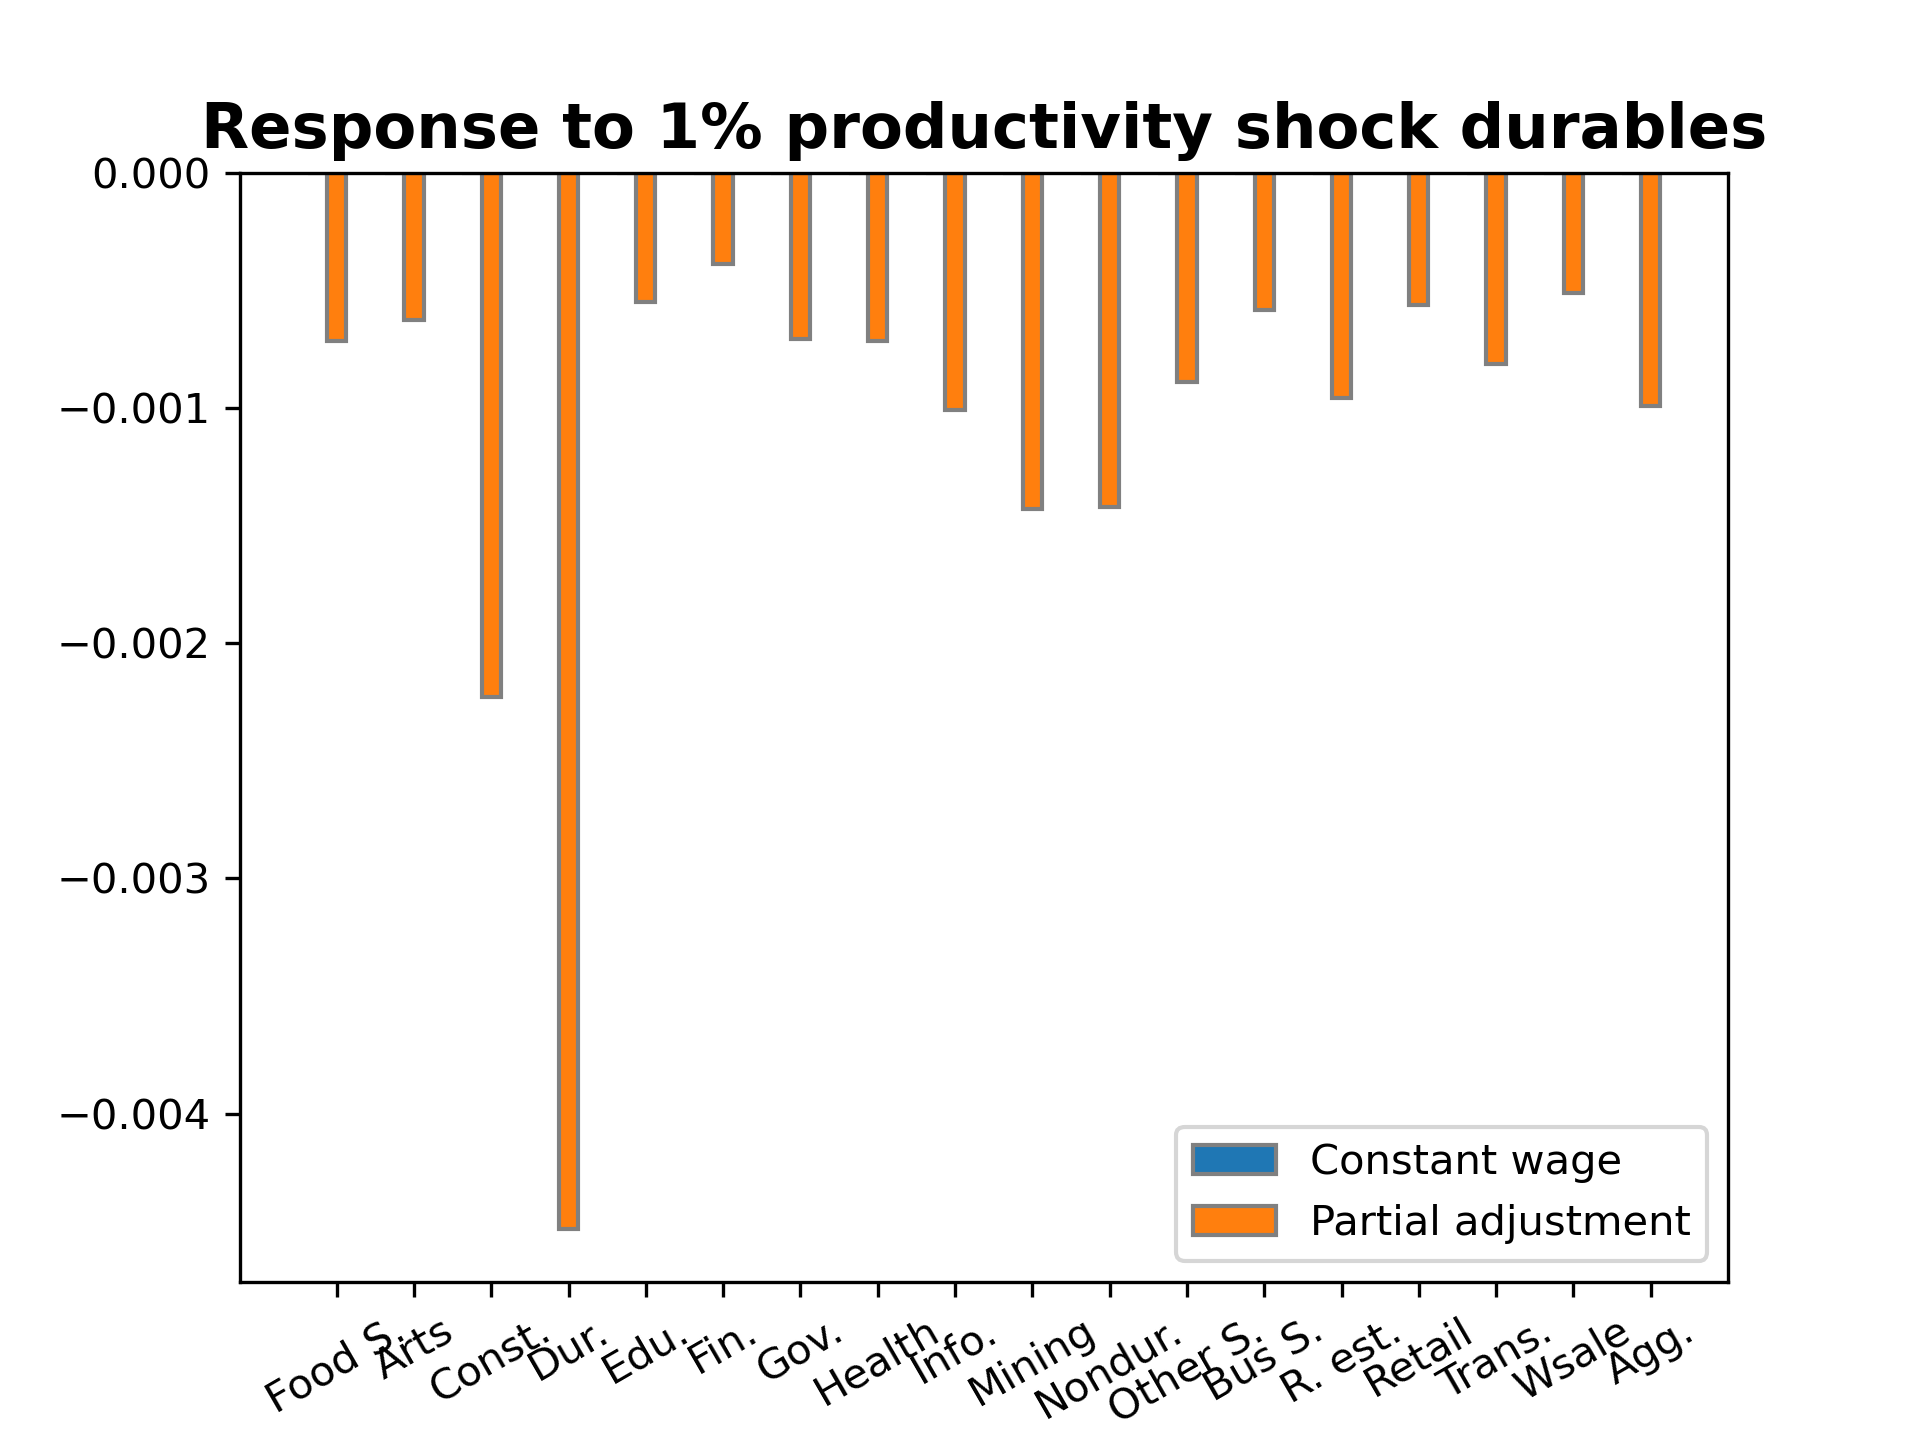
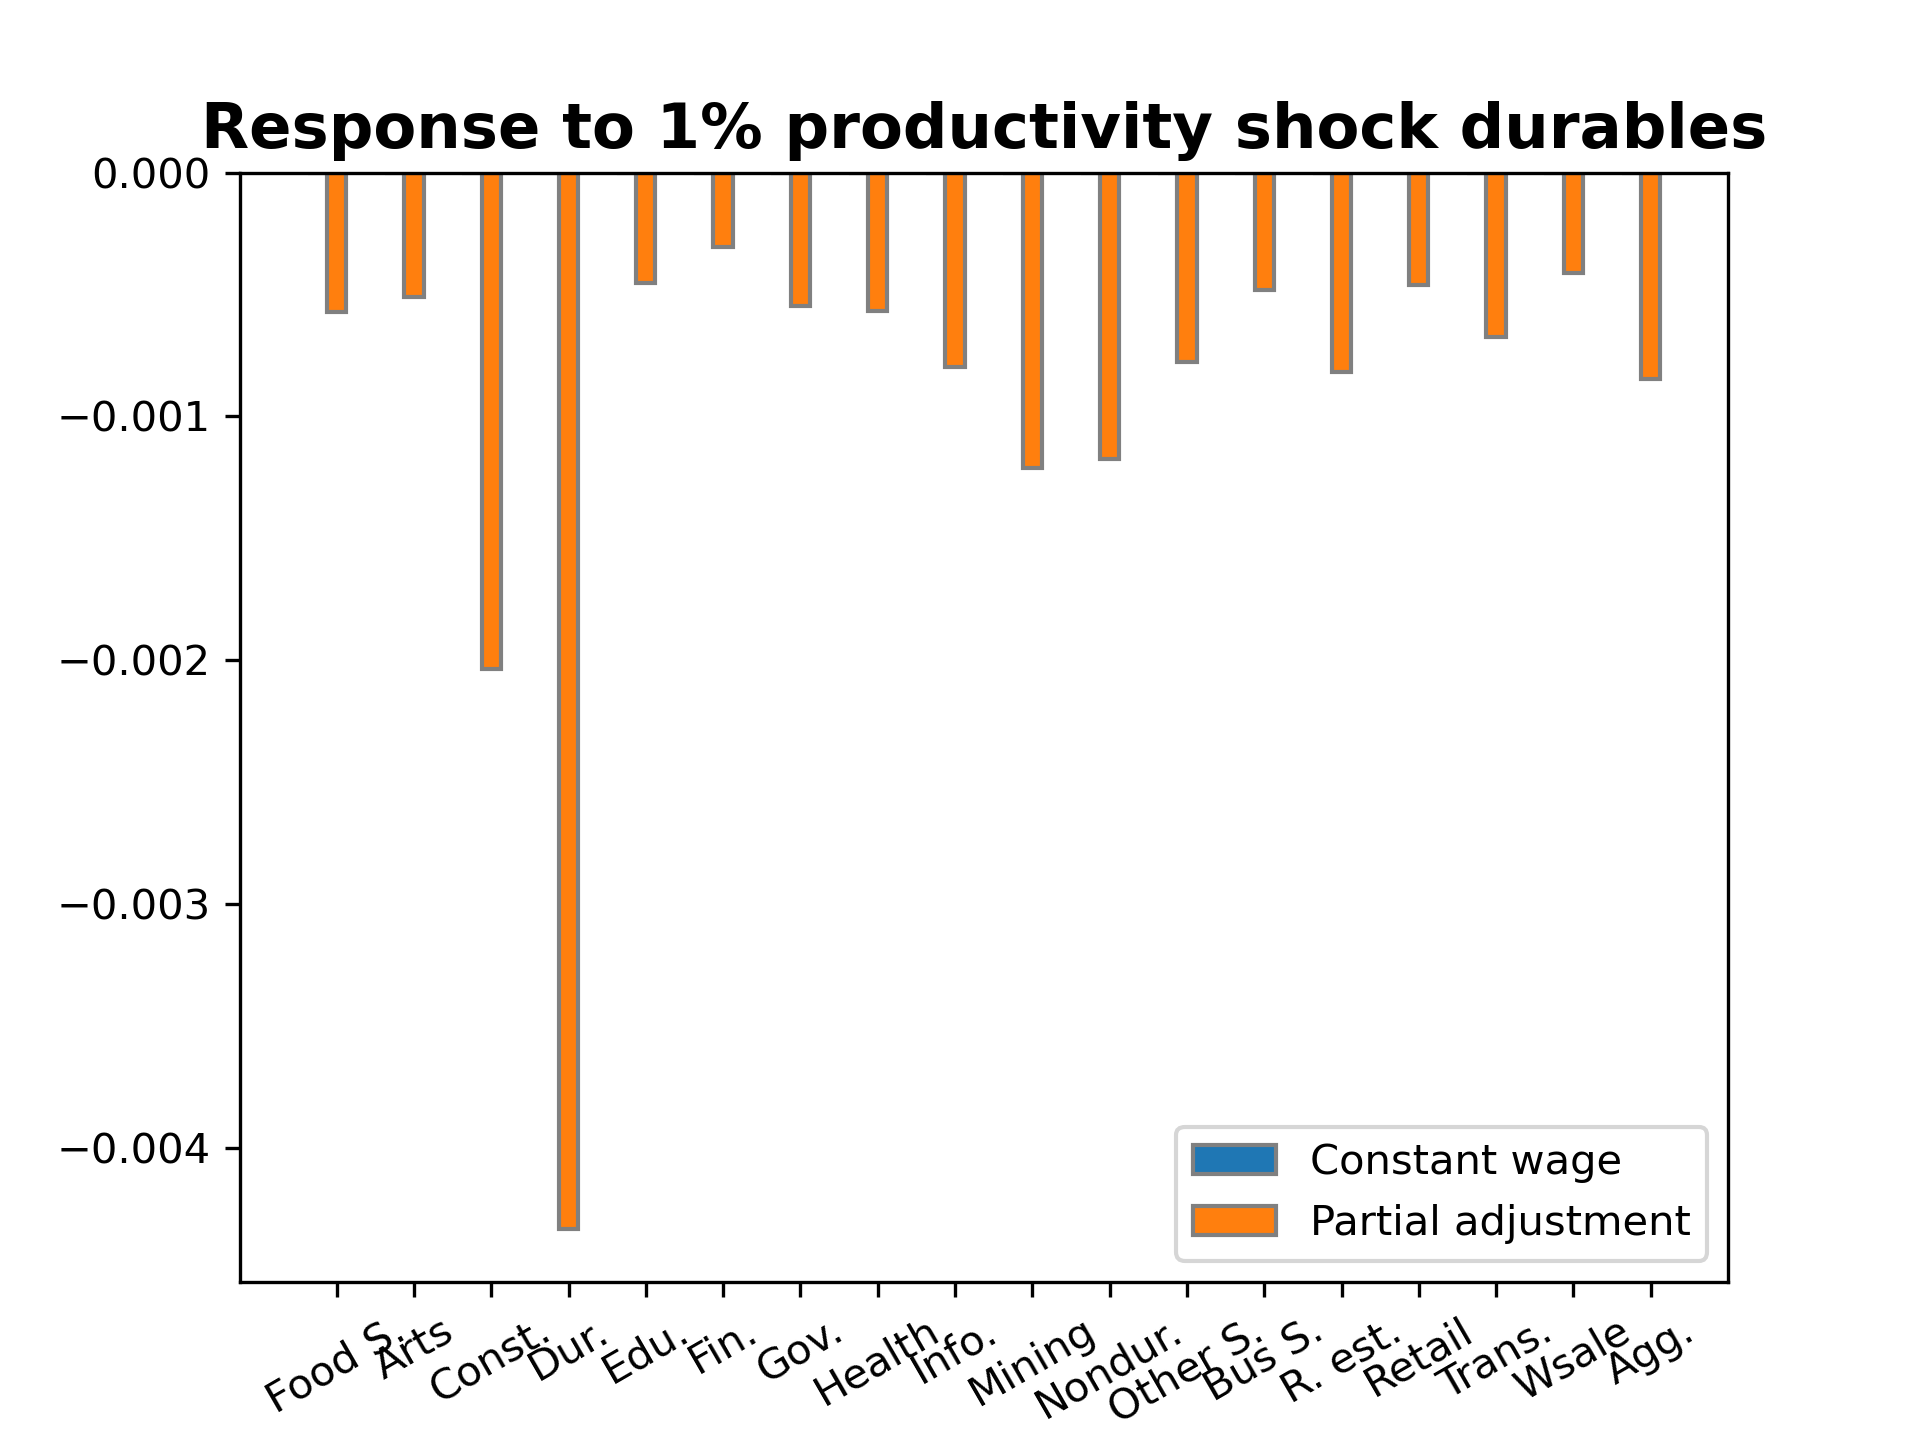
calibrated r

diff --git a/new_code/main.py b/new_code/main.py
@@ -1,7 +1,7 @@
 import numpy as np
 import matplotlib.pyplot as plt
 from scipy.optimize import root
-from functions.helpers_labor_market import gen_curlyF_CD, gen_elasticity_Qtheta_CD, gen_tau_CD
+from functions.helpers_labor_market import gen_curlyF_CD, gen_elasticity_Qtheta_CD, gen_tau_CD, r_calib
 from functions.cobb_douglas_network import cobb_douglas_network, bar_plot
 import pandas as pd
 
@@ -54,7 +54,9 @@ if __name__ == "__main__":
 
     elasticity_Qtheta = gen_elasticity_Qtheta_CD(theta,eta)
     curlyF = gen_curlyF_CD(theta,eta,phi,s)
-    tau = gen_tau_CD(theta,eta,phi,s,r)
+    
+    r = r_calib(theta,eta,phi,s,L,0.032)
+    tau = gen_tau_CD(theta,eta,phi,s,r*np.ones_like(theta))
 
     #### Setting up production network ####
     ## Rigid nominal wages ##
@@ -203,5 +205,5 @@ if __name__ == "__main__":
     ylab    = ''
     save_path = 'output/H_shock_fixed_sectoral_Urate_durables.png'
     bar_plot(networks, sector_names, varname, aggname, title, xlab, ylab, labels, save_path, rotation=30, fontsize=15, barWidth = 0.25, dpi=300)
-    
+
     print('done')

diff --git a/new_code/functions/helpers_labor_market.py b/new_code/functions/helpers_labor_market.py
@@ -1,4 +1,5 @@
 import numpy as np
+from scipy.optimize import root 
 
 ##### Tightness #####
 def theta(dlogA, dlogH, curlyF, elasticity_Ldtheta, elasticity_LdA):
@@ -26,3 +27,13 @@ def gen_elasticity_Qtheta_CD(theta, eta):
 
 def gen_tau_CD(theta,eta,phi,s,r):
     return r * s / (phi * np.power(theta,-eta) - r * s)
+
+def r_calib(theta,eta,phi,s,L,targ,tol=1e-8):
+    r_opt = root(r_obj, 0.1, args=(theta,eta,phi,s,L,targ), method='hybr', tol=tol)
+    return r_opt.x[0]
+
+def r_obj(r,theta,eta,phi,s,L,targ):
+    r = r * np.ones_like(theta)
+    tau = gen_tau_CD(theta,eta,phi,s,r)
+    obj = tau.T @ L / np.sum(L) - targ
+    return obj[0]
